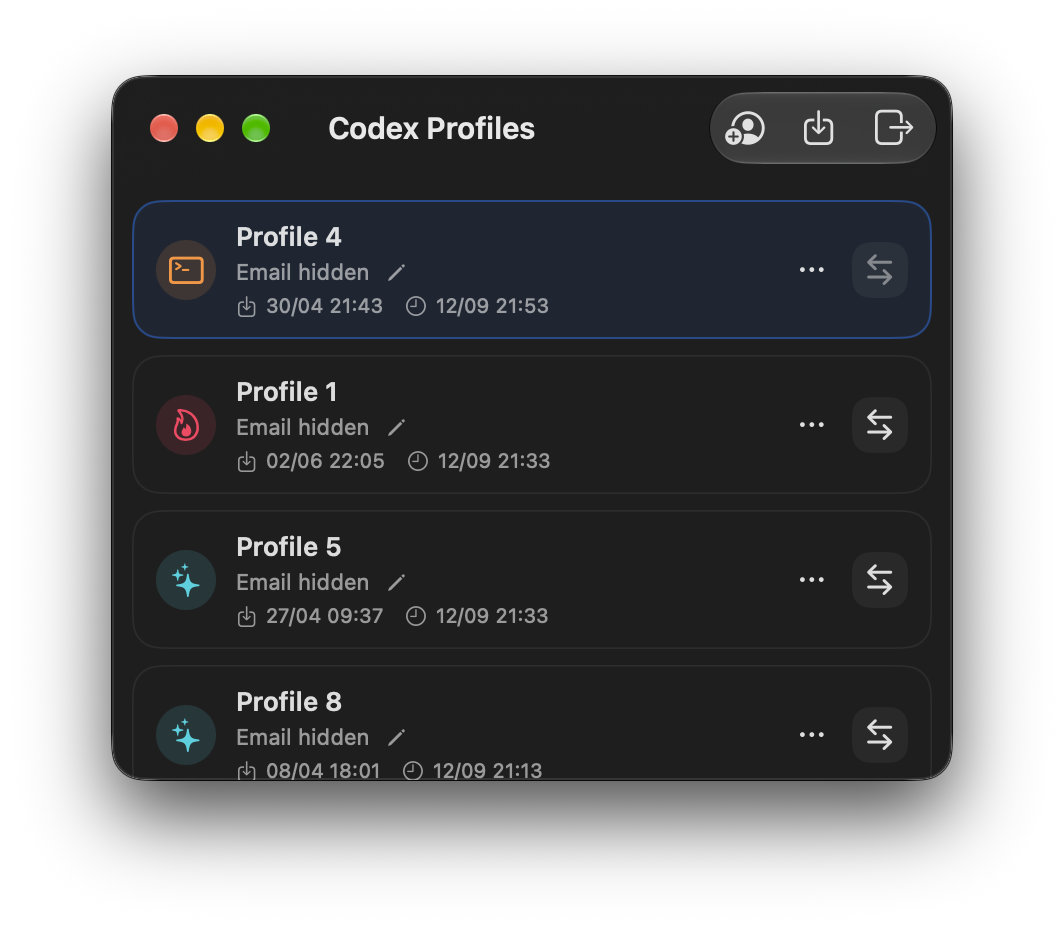
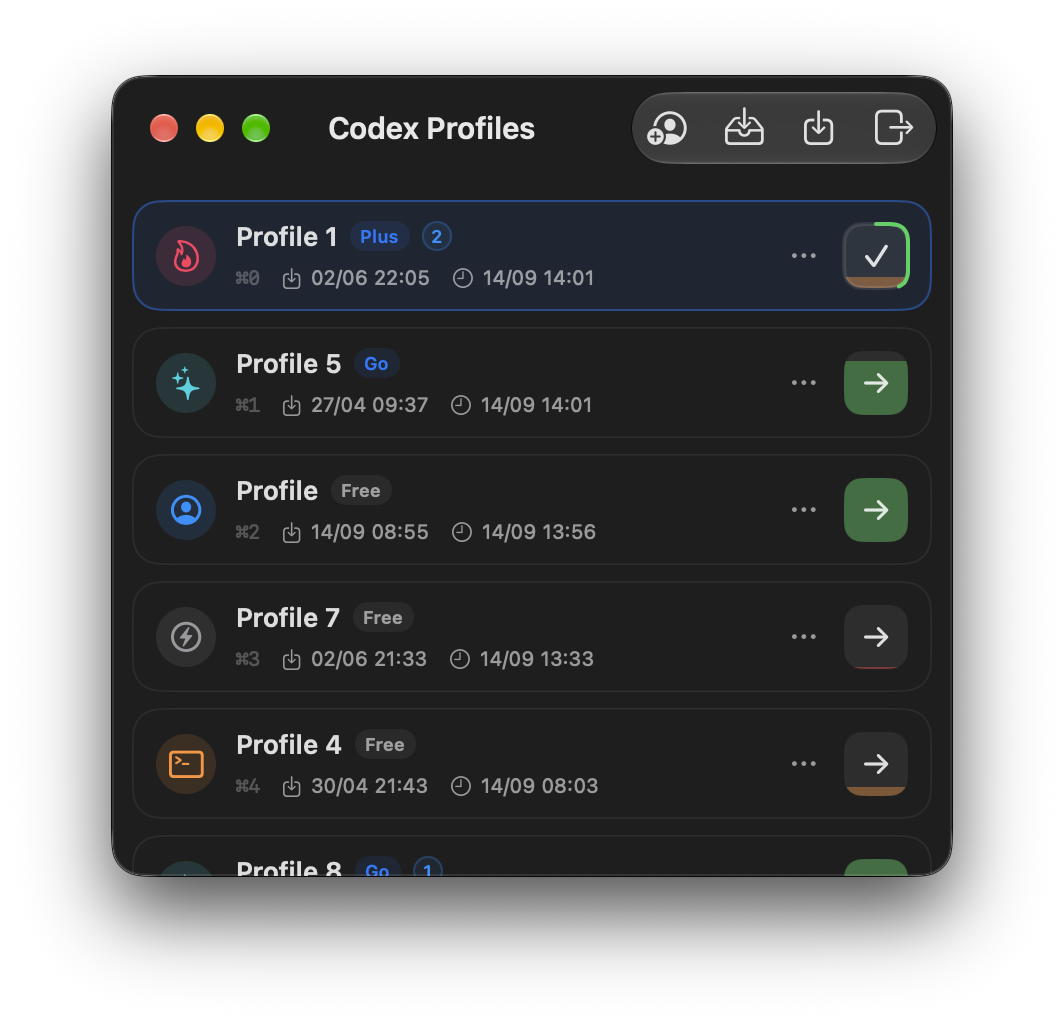
Prepare version 2.0 with refreshed screenshots and concise documentation

diff --git a/Sources/CodexProfilesApp/SessionRenewal.swift b/Sources/CodexProfilesApp/SessionRenewal.swift
@@ -146,7 +146,7 @@ enum SessionRenewal {
         try process.run()
         let outcome: Result<[String: Any], Error>
         do {
-            try send(["id": 0, "method": "initialize", "params": ["clientInfo": ["name": "codex_profiles", "title": "Codex Profiles", "version": "1.13"], "capabilities": ["experimentalApi": experimental]]], to: input)
+            try send(["id": 0, "method": "initialize", "params": ["clientInfo": ["name": "codex_profiles", "title": "Codex Profiles", "version": "2.0"], "capabilities": ["experimentalApi": experimental]]], to: input)
             var pending = Data()
             var totalBytes = 0
             var initialized = false

diff --git a/CHANGELOG.md b/CHANGELOG.md
@@ -1,41 +1,8 @@
 # Changelog
 
-## 1.13
-- Render menu bar rows from memory and highlight hovered profiles.
-- Reduce reset badges and simplify hidden-email presentation.
+## 2.0
 
-## 1.12
-- Match menu bar ordering and ⌘0–9 shortcuts to the selected sort order.
-- Compact the menu bar panel and move reset badges beside account plans.
-
-## 1.11
-- Fix the collapsed menu bar profile list.
-- Add direct ⌘1–9 profile shortcuts and compact reset-count badges.
-
-## 1.10
-- Add an optional menu bar panel for switching profiles and checking limits.
-- Clarify switching progress; use clockwise quota outlines and remaining-based colors.
-
-## 1.9
-- Show cached quota indicators on profile buttons with automatic background updates.
-- Add keyboard profile switching, refresh-all, and available reset counts.
-
-## 1.8
-- Simplify session details and show cached usage limits with reset times.
-- Pause renewal for confirmed dead sessions until a new sign-in.
-
-## 1.7
-- Enable automatic renewal by default with a configurable 1–7 day lead time.
-- Fix profile menus; add direct manual renewal, failure indicators, and the next attempt time.
-
-## 1.6
-- Add browser sign-in to the toolbar and show saved account plans.
-- Renew inactive sessions manually or automatically using the official Codex CLI.
-- Simplify active-profile controls and session details.
-
-## 1.5
-- Preserve renewed sessions when switching or signing out locally.
-- Simplify the interface, add email privacy, and refresh the app icon.
-
-## 1.4
-- Support the renamed ChatGPT app and improve profile imports and backups.
+- Preserve refreshed credentials when switching; improve imports and session recovery.
+- Add browser sign-in and configurable automatic or manual session renewal.
+- Show cached usage limits, reset times, and available resets.
+- Add an optional menu bar, ⌘0–9 profile switching, and a refined interface with email privacy.

diff --git a/README.md b/README.md
@@ -14,8 +14,9 @@ Native macOS manager for local ChatGPT / Codex profiles.
 
 ## Features
 
-- Save, switch, import, export, and locally sign out of profiles
-- Optional email hiding, search, avatars, and profile renaming
+- Browser sign-in, profile switching, imports, exports, and local sign-out
+- Cached limits, reset counts, and manual or automatic session renewal
+- Optional menu bar, ⌘0–9 switching, email privacy, and custom avatars
 
 ## Build
 
